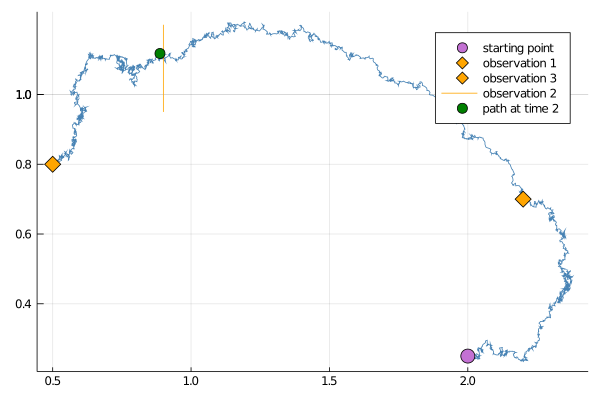
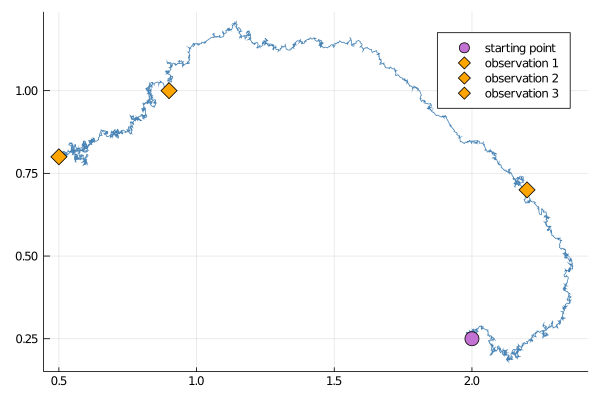
further improvements

diff --git a/docs/src/manual/multiple_obs.md b/docs/src/manual/multiple_obs.md
@@ -14,35 +14,27 @@ GuidedProposals.build_guid_prop
 ```
 For instance:
 ```julia
+observs = load_data(
+    ObsScheme(
+        LinearGsnObs(
+            0.0, zero(SVector{2,Float64});
+            Σ = 1e-4*SDiagonal(1.0, 1.0)
+        )
+    ),
+    [1.0, 2.0, 3.0],
+    [[2.2, 0.7], [0.9, 1.0], [0.5, 0.8]]
+)
+
 recording = (
     P = P_target,
-    obs = [
-	    LinearGsnObs(
-	        1.0, (@SVector [2.2, 0.7]);
-	        Σ = 1e-4*SDiagonal(1.0, 1.0)
-	    ),
-	    LinearGsnObs(
-	        2.0, (@SVector [0.9]);
-	        L = (@SMatrix [1.0 0.0]), Σ = 1e-4*SDiagonal(1.0)
-	    ),
-	    LinearGsnObs(
-	        3.0, (@SVector [0.5, 0.8]);
-	        Σ = 1e-4*SDiagonal(1.0, 1.0)
-	    )
-	],
+    obs = observs,
     t0 = 0.0,
     x0_prior = undef # normally, we would provide a prior, however for the steps
     # below it is not needed
 )
+tts = OBS.setup_time_grids(recording, 0.001)
 
-dt = 0.001
-tts = [
-    0.0:dt:(observs[1].t),
-    (observs[1].t):dt:(observs[2].t),
-    (observs[2].t):dt:(observs[3].t),
-]
-
-P = build_guid_prop(LotkaVolterraAux, recording, tts)
+PP = build_guid_prop(LotkaVolterraAux, recording, tts)
 ```
 where we have packaged the observations in a format of a `recording` from [ObservationSchemes.jl](https://github.com/JuliaDiffusionBayes/ObservationSchemes.jl)
 
@@ -58,17 +50,57 @@ where we have packaged the observations in a format of a `recording` from [Obser
     ```julia
     P = [P_intv1, P_intv2, P_intv3]
     ```
-    is equivalent to `P` defined before. Needless to say, calling `build_guid_prop` instead is recommended.
+    is equivalent to `PP` defined before. Needless to say, calling `build_guid_prop` instead is recommended.
 
 ## Sampling a single trajectory
+-------------------------------
 Sampling is done analogously to how it was done for a case of a single observation. Simply call `rand` if you wish to have containers initialized in the background:
 ```julia
-XX, WW, Wnr = rand(P, y1)
+# sample
+XX, WW, Wnr = rand(PP, y1)
+
+# build a plot
+p = plot()
+for i in 1:3
+    plot!(p, XX[i], Val(:x_vs_y); color="steelblue",label="")
+end
+scatter!(p, [y1[1]],[y1[2]], markersize=8, label="starting point")
+for i in 1:3
+	  o = OBS.obs(recording.obs[i])
+    scatter!(p, [o[1]], [o[2]]; label="observation $i", markersize=8, marker=:diamond, markercolor="orange")
+end
+display(p)
 ```
 ![guid_prop_multi](../assets/manual/guid_prop_multi/lotka_volterra_multi_gp.png)
 
-Alternatively, initialize the containers yourself and then call `rand!`:
+Alternatively, initialize containers yourself and then call `rand!`:
 ```julia
-XX, WW = trajectory(P)
-rand!(P, ...)
+XX, WW = trajectory(PP)
+rand!(PP, XX, WW, y1)
+```
+
+## Sampling multiple trajectories
+---------------------------------
+As it was the case with single observation, sampling multiple trajectories often involves computation of the log-likelihood. Analogously to how it was explained in the [previous section](@ref single_obs_multiple_trajectories), there are three ways of computing log-likelihood and the preferred way is to use the optimized `rand!` samplers that compute log-likelihoods as the path is being sampled.
+
+```julia
+success, ll = rand!(PP, XX, WW, Val(:ll), y1)
+```
+
+Smoothing is now as simple as it was for a single observation. In fact, thanks to the magic of Julia's multiple dispatch we may call the exact same function `simple_smoothing` that was defined in the [previous section](@ref single_obs_multiple_trajectories) and it will work for multiple observations as well!
+```julia
+paths = simple_smoothing(P, y1)
+```
+![lotka_volterra_simple_smoothing_multi](../assets/manual/guid_prop_multi/lotka_volterra_simple_smoothing_multi.png)
+
+!!! note
+    A log-likelihood computed by `rand!` for a list of trajectories is slightly different than the log-likelihood computed for a single segment. An additional term due to transition densities is added. See the [section on log-likelihoods](@ref log_likelihood_computations) for more details.
+
+## Preconditioned Crank-Nicolson scheme
+---------------------------------------
+Perturbing Gaussian noise instead of sampling it anew works in exactly the same way as in the previous section.
+```julia
+XX°, WW° = trajectory(PP)
+ρρ = [0.5, 0.8, 0.4] # one memory param for each interval
+rand!(PP, XX°, WW°, WW, ρρ, y1)
 ```

diff --git a/docs/src/manual/guid_prop.md b/docs/src/manual/guid_prop.md
@@ -1,4 +1,4 @@
-# Defining guided proposals
+# [Defining guided proposals](@id manual_start)
 ***************************
 The main object used to define guided proposals is
 ```@docs
@@ -133,7 +133,7 @@ while !success
 end
 ```
 
-## Sampling multiple trajectories
+## [Sampling multiple trajectories](@id single_obs_multiple_trajectories)
 ---------------------------------
 Of course, sampling a single trajectory of a guided proposal is usually not the end-goal. We are instead interested in sampling from the target law. To this end we need to not only sample paths, but also compute their log-likelihoods. This can be done in three ways.
 1. First, you may simply call `loglikhd` after the path has been sampled to compute the log-likelihood for it
@@ -143,7 +143,7 @@ Of course, sampling a single trajectory of a guided proposal is usually not the 
 success, ll = rand!(P, X, W, Val(:ll), x0; Wnr=Wiener())
 ```
 !!! warning
-    `ll` returned by `rand!` is not exactly log-likelihood for the path `XX` and one needs to be careful what is the meaning of it. Study section on ... to find out more.
+    `ll` returned by `rand!` is not exactly log-likelihood for the path `XX` and one needs to be careful what is the meaning of it. Consult the [section on log-likelihoods](@ref log_likelihood_computations) to find out more.
 
 With these functions we may very easily perform smoothing to obtain samples under the target law:
 ```julia

diff --git a/docs/src/index.md b/docs/src/index.md
@@ -9,6 +9,6 @@ Provides methods for efficient sampling of conditioned diffusions.
 Depending on your intended use of this package you might choose to start at different places:
 
 - For a quick overview of [GuidedProposals.jl](https://juliadiffusionbayes.github.io/GuidedProposals.jl/dev/)'s main functionality see [Get started](@ref get_started).
-- For a systematic introduction to all functionality introduced in this package see the [Manual](@ref defining_diffusion)
+- For a systematic introduction to all functionality introduced in this package see the [Manual](@ref manual_start)
 - For a didactic introduction to problems that can be solved using [GuidedProposals.jl](https://juliadiffusionbayes.github.io/GuidedProposals.jl/dev/) see the [Tutorials](@ref tutorials_start)
 - If you have a problem that you think can be addressed with this package, then check out the [How-to guides](@ref how_to_guides) to see if the answer is already there.

diff --git a/docs/src/tutorials/in_place_vs_out_of_place.md b/docs/src/tutorials/in_place_vs_out_of_place.md
@@ -1,0 +1,1 @@
+# [Understanding in-place vs out-of-place methods and how to call them](@id tutorials_start)

diff --git a/docs/src/manual/log_likelihood.md b/docs/src/manual/log_likelihood.md
@@ -1,0 +1,1 @@
+# [Computations of log-likelihoods](@id log_likelihood_computations)

diff --git a/docs/src/how_to_guides/sample_bridges.md b/docs/src/how_to_guides/sample_bridges.md
@@ -1,0 +1,1 @@
+# [How to sample diffusion bridges](@id how_to_guides)
